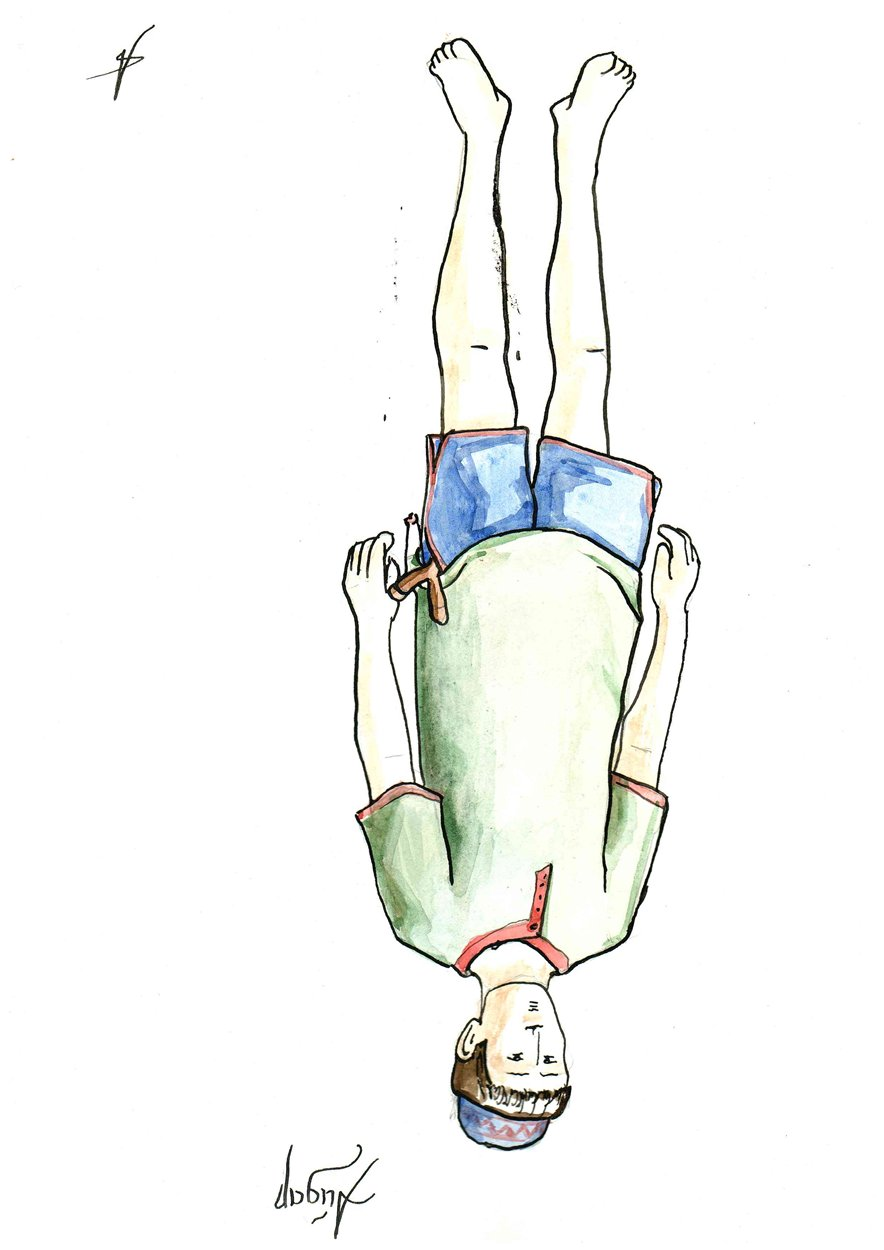
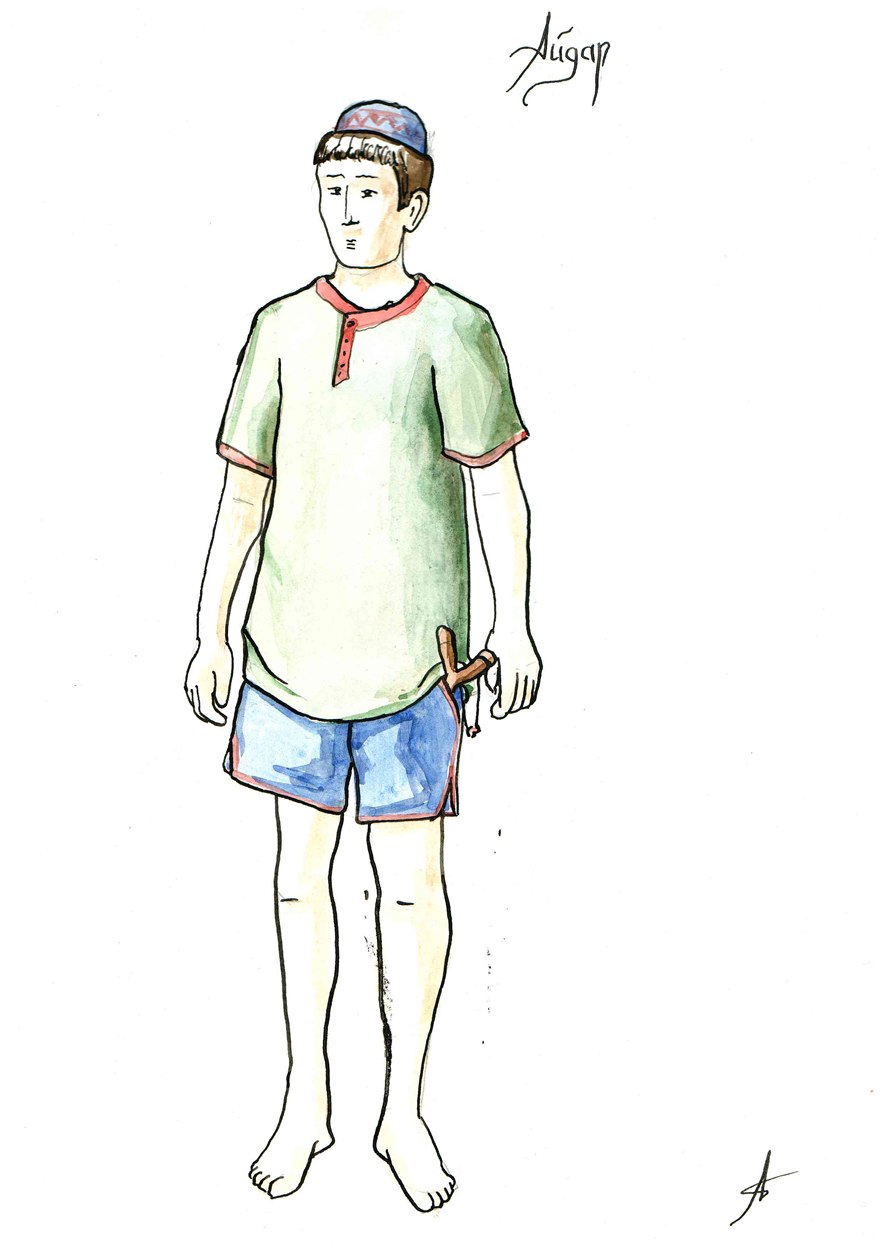
Refine scenography cases and remove duplicate visuals

Changed region(s): [[0.1833, 0.0, 0.7941, 0.9984], [0.8247, 0.936, 0.8857, 0.9672], [0.1222, 0.0312, 0.1527, 0.0936]]

diff --git a/portfolio/index.html b/portfolio/index.html
@@ -73,10 +73,10 @@ figcaption{margin-top:8px;font-size:9px;line-height:1.35;letter-spacing:.13em;te
 .pochtamt-grid{display:grid;grid-template-columns:.76fr 1.24fr;gap:12px;align-items:stretch}
 .pochtamt-grid .project .panel{height:100%;min-height:460px}
 .pochtamt-grid .hero-photo .panel{height:100%;min-height:460px}
-.pochtamt-strip{display:grid;grid-template-columns:1fr 1fr 1fr;gap:10px;margin-top:12px}
+.pochtamt-strip{display:grid;grid-template-columns:1fr 1fr;gap:12px;margin-top:12px}
 .pochtamt-strip .panel{aspect-ratio:16/10}
 .pochtamt-strip figure:nth-child(2){transform:translateY(18px)}
-.pochtamt-strip figure:nth-child(3){transform:translateY(36px)}
+
 
 /* 02 PODPOLIE — mirrored / fractured */
 .case--podpolie{--case-accent:#665a7c;background:#d8d3dc}
@@ -87,7 +87,7 @@ figcaption{margin-top:8px;font-size:9px;line-height:1.35;letter-spacing:.13em;te
 .pod-stage .large .panel{height:560px}
 .pod-stage .side{display:grid;grid-template-columns:1fr;gap:12px}
 .pod-stage .side .panel{aspect-ratio:16/10}
-.pod-footer{display:grid;grid-template-columns:repeat(2,1fr);gap:12px;margin-top:12px}
+.pod-footer{display:grid;grid-template-columns:1fr;gap:12px;margin-top:12px;width:min(72%,820px)}
 .pod-footer .panel{aspect-ratio:16/9}
 
 /* 03 TAGANOK — rotation / sequence */
@@ -95,11 +95,11 @@ figcaption{margin-top:8px;font-size:9px;line-height:1.35;letter-spacing:.13em;te
 .tag-lead{display:grid;grid-template-columns:.38fr 1.62fr;gap:14px;align-items:stretch}
 .tag-lead .plan .panel{height:100%;min-height:500px}
 .tag-lead .wide .panel{height:100%;min-height:500px}
-.tag-sequence{display:grid;grid-template-columns:repeat(4,1fr);gap:8px;margin-top:18px}
+.tag-sequence{display:grid;grid-template-columns:repeat(3,1fr);gap:10px;margin-top:18px}
 .tag-sequence .panel{aspect-ratio:4/3}
 .tag-sequence figure:nth-child(2){transform:translateY(12px)}
 .tag-sequence figure:nth-child(3){transform:translateY(24px)}
-.tag-sequence figure:nth-child(4){transform:translateY(36px)}
+
 .tag-detail{display:grid;grid-template-columns:.34fr 1fr;gap:12px;margin-top:54px;align-items:end}
 .tag-detail .project .panel{aspect-ratio:3/4}
 .tag-detail .final .panel{aspect-ratio:16/9}
@@ -137,7 +137,6 @@ figcaption{margin-top:8px;font-size:9px;line-height:1.35;letter-spacing:.13em;te
 .angels-grid figure:nth-child(2){grid-column:6/13;grid-row:1/6}
 .angels-grid figure:nth-child(3){grid-column:1/8;grid-row:5/10}
 .angels-grid figure:nth-child(4){grid-column:8/13;grid-row:6/10}
-.angels-grid figure:nth-child(5){grid-column:1/13;grid-row:10/15}
 .angels-grid .panel{height:100%}
 
 /* 07 PROSTI — upper/lower bridge */
@@ -220,7 +219,7 @@ figcaption{margin-top:8px;font-size:9px;line-height:1.35;letter-spacing:.13em;te
  .pochtamt-strip figure{transform:none!important}
  .pod-top{grid-template-columns:1fr}
  .pod-top .project:last-child{transform:none}
- .pod-footer{grid-template-columns:1fr}
+ .pod-footer{grid-template-columns:1fr;width:100%}
  .tag-sequence{grid-template-columns:1fr}
  .tag-detail{margin-top:18px}
  .neb-lead,.neb-row{gap:14px}
@@ -296,9 +295,8 @@ figcaption{margin-top:8px;font-size:9px;line-height:1.35;letter-spacing:.13em;te
       <figure class="hero-photo reveal" data-delay="1"><div class="panel"><img class="zoom" loading="lazy" src="images/pochtamt-1.jpg" alt="Почтамт на сцене"></div><figcaption>Реализация / система в действии</figcaption></figure>
     </div>
     <div class="pochtamt-strip">
-      <figure class="project reveal"><div class="panel"><img class="zoom" loading="lazy" src="images/pochtamt-sketch2.jpg" alt="Второй эскиз Почтамта"></div><figcaption>Проектное состояние</figcaption></figure>
-      <figure class="reveal" data-delay="1"><div class="panel"><img class="zoom" loading="lazy" src="images/pochtamt-2.jpg" alt="Почтамт"></div><figcaption>Конвейер / люди / коробки</figcaption></figure>
-      <figure class="reveal" data-delay="2"><div class="panel"><img class="zoom" loading="lazy" src="images/pochtamt-3.jpg" alt="Почтамт"></div><figcaption>Сценическое состояние</figcaption></figure>
+      <figure class="reveal"><div class="panel"><img class="zoom" loading="lazy" src="images/pochtamt-2.jpg" alt="Почтамт"></div><figcaption>Другое состояние пространства</figcaption></figure>
+      <figure class="reveal" data-delay="1"><div class="panel"><img class="zoom" loading="lazy" src="images/pochtamt-3.jpg" alt="Почтамт"></div><figcaption>Предметная система в действии</figcaption></figure>
     </div>
     <div class="case-end"><div class="case-note">Сценография · костюмы · свет · медиа</div><div class="case-note">Участник XV Международного фестиваля «Коляда-Plays / Евразия»</div></div>
   </div>
@@ -317,7 +315,7 @@ figcaption{margin-top:8px;font-size:9px;line-height:1.35;letter-spacing:.13em;te
     </div>
     <div class="pod-top">
       <figure class="project reveal"><div class="panel"><img class="zoom" loading="lazy" src="images/podpolie-initial.jpg" alt="Ранний вариант Подполья"></div><figcaption>Первоначальная версия / большая сцена</figcaption></figure>
-      <figure class="project reveal" data-delay="1"><div class="panel"><img class="zoom" loading="lazy" src="images/podpolie-final.jpg" alt="Финальная пространственная версия Подполья"></div><figcaption>Финальная пространственная версия / зеркала и манекены</figcaption></figure>
+      <figure class="project reveal" data-delay="1"><div class="panel"><img class="zoom" loading="lazy" src="images/podpolie-final.jpg" alt="Рабочая схема финальной версии Подполья"></div><figcaption>Рабочая схема финальной версии / малая сцена</figcaption></figure>
     </div>
     <div class="pod-stage">
       <figure class="large reveal"><div class="panel"><img class="zoom" loading="lazy" src="images/podpolie-4.jpg" alt="Подполье на сцене"></div><figcaption>Реализация / общий вид пространства</figcaption></figure>
@@ -327,8 +325,7 @@ figcaption{margin-top:8px;font-size:9px;line-height:1.35;letter-spacing:.13em;te
       </div>
     </div>
     <div class="pod-footer">
-      <figure class="reveal"><div class="panel"><img class="zoom" loading="lazy" src="images/podpolie-3.jpg" alt="Подполье"></div><figcaption>Персонаж и отражение</figcaption></figure>
-      <figure class="project reveal" data-delay="1"><div class="panel"><img class="zoom" loading="lazy" src="images/podpolie-sketch.jpg" alt="Эскиз ранней версии Подполья"></div><figcaption>Эскиз раннего поиска / сохранён как этап развития решения</figcaption></figure>
+      <figure class="reveal"><div class="panel"><img class="zoom" loading="lazy" src="images/podpolie-3.jpg" alt="Подполье"></div><figcaption>Персонаж, отражение и глубина камерного пространства</figcaption></figure>
     </div>
     <div class="case-end"><div class="case-note">Сценография · костюмы · свет</div><div class="case-note">Ключевой переход: большая сцена → камерное пространство без уменьшения идеи</div></div>
   </div>
@@ -350,14 +347,13 @@ figcaption{margin-top:8px;font-size:9px;line-height:1.35;letter-spacing:.13em;te
       <figure class="wide reveal" data-delay="1"><div class="panel"><img class="zoom" loading="lazy" src="images/taganok-wide.jpg" alt="Таганок, общий вид"></div><figcaption>Реализация / широкий общий вид</figcaption></figure>
     </div>
     <div class="tag-sequence">
-      <figure class="reveal"><div class="panel"><img class="zoom" loading="lazy" src="images/taganok-1.jpg" alt="Таганок"></div><figcaption>Состояние 1</figcaption></figure>
-      <figure class="reveal" data-delay="1"><div class="panel"><img class="zoom" loading="lazy" src="images/taganok-2.jpg" alt="Таганок"></div><figcaption>Состояние 2</figcaption></figure>
-      <figure class="reveal" data-delay="2"><div class="panel"><img class="zoom" loading="lazy" src="images/taganok-5.jpg" alt="Таганок"></div><figcaption>Состояние 3</figcaption></figure>
-      <figure class="reveal" data-delay="3"><div class="panel"><img class="zoom" loading="lazy" src="images/taganok-4.jpg" alt="Таганок"></div><figcaption>Финальный ансамбль</figcaption></figure>
+      <figure class="reveal"><div class="panel"><img class="zoom" loading="lazy" src="images/taganok-2.jpg" alt="Таганок"></div><figcaption>Положение круга / дом и рельеф</figcaption></figure>
+      <figure class="reveal" data-delay="1"><div class="panel"><img class="zoom" loading="lazy" src="images/taganok-6.jpg" alt="Таганок"></div><figcaption>Положение круга / два масштаба пространства</figcaption></figure>
+      <figure class="reveal" data-delay="2"><div class="panel"><img class="zoom" loading="lazy" src="images/taganok-5.jpg" alt="Таганок"></div><figcaption>Положение круга / многоуровневая композиция</figcaption></figure>
     </div>
     <div class="tag-detail">
       <figure class="project reveal"><div class="panel"><img class="zoom" loading="lazy" src="images/taganok-costume.jpg" alt="Костюмный эскиз Таганка"></div><figcaption>Костюмный эскиз</figcaption></figure>
-      <figure class="final reveal" data-delay="1"><div class="panel"><img class="zoom" loading="lazy" src="images/taganok-3.jpg" alt="Финал Таганка"></div><figcaption>Финал / форма декорации раскрывается после прохождения героями пути</figcaption></figure>
+      <figure class="final reveal" data-delay="1"><div class="panel"><img class="zoom" loading="lazy" src="images/taganok-4.jpg" alt="Финал Таганка"></div><figcaption>Финал / мальчики и скрытый силуэт орла</figcaption></figure>
     </div>
     <div class="case-end"><div class="case-note">Сценография · костюмы · свет · соавторство инсценировки</div><div class="case-note">Фестивальная история: «Театральное Приволжье», «Золотой Трезини» и др.</div></div>
   </div>
@@ -386,7 +382,6 @@ figcaption{margin-top:8px;font-size:9px;line-height:1.35;letter-spacing:.13em;te
       </div>
       <figure class="big reveal" data-delay="2"><div class="panel"><img class="zoom" loading="lazy" src="images/nebesny-3.jpg" alt="Белые полотна"></div><figcaption>Белые полотна / массовая сцена</figcaption></figure>
     </div>
-    <figure class="project neb-costume reveal"><div class="panel"><img class="zoom" loading="lazy" src="images/nebesny-costume.jpg" alt="Костюмная разработка Небесного тихохода"></div><figcaption>Костюмная разработка</figcaption></figure>
     <div class="case-end"><div class="case-note">Сценография · костюмы · свет</div><div class="case-note">Принцип: минимальное количество предметов — максимальная роль пространства и ансамбля</div></div>
   </div>
 </section>
@@ -430,11 +425,10 @@ figcaption{margin-top:8px;font-size:9px;line-height:1.35;letter-spacing:.13em;te
       <p class="reveal" data-delay="2">Маршрут актёров, трансформируемые элементы и одна система архитектурных линий удерживают квартиру, улицу и рождественскую условность.</p>
     </div>
     <div class="angels-grid">
-      <figure class="project reveal"><div class="panel"><img class="zoom" loading="lazy" src="images/angels-sketch.jpg" alt="Эскиз Когда ангелы шутят"></div><figcaption>Проект / квартира</figcaption></figure>
-      <figure class="reveal" data-delay="1"><div class="panel"><img class="zoom" loading="lazy" src="images/angels-1.jpg" alt="Когда ангелы шутят"></div><figcaption>Реализация</figcaption></figure>
-      <figure class="project reveal" data-delay="2"><div class="panel"><img class="zoom" loading="lazy" src="images/angels-sketch2.jpg" alt="Эскиз Когда ангелы шутят"></div><figcaption>Проект / другое состояние</figcaption></figure>
-      <figure class="reveal" data-delay="1"><div class="panel"><img class="zoom" loading="lazy" src="images/angels-2.jpg" alt="Когда ангелы шутят"></div><figcaption>Смена локации внутри общего каркаса</figcaption></figure>
-      <figure class="reveal" data-delay="2"><div class="panel"><img class="zoom" loading="lazy" src="images/angels-3.jpg" alt="Когда ангелы шутят"></div><figcaption>Сценография / костюм / свет в едином кадре</figcaption></figure>
+      <figure class="project reveal"><div class="panel"><img class="zoom" loading="lazy" src="images/angels-sketch.jpg" alt="Эскиз Когда ангелы шутят"></div><figcaption>Проект / архитектурная система</figcaption></figure>
+      <figure class="reveal" data-delay="1"><div class="panel"><img class="zoom" loading="lazy" src="images/angels-1.jpg" alt="Когда ангелы шутят"></div><figcaption>Реализация / общий вид</figcaption></figure>
+      <figure class="reveal" data-delay="1"><div class="panel"><img class="zoom" loading="lazy" src="images/angels-2.jpg" alt="Когда ангелы шутят"></div><figcaption>Другое состояние той же системы</figcaption></figure>
+      <figure class="reveal" data-delay="2"><div class="panel"><img class="zoom" loading="lazy" src="images/angels-3.jpg" alt="Когда ангелы шутят"></div><figcaption>Сценография, костюм и свет в едином кадре</figcaption></figure>
     </div>
     <div class="case-end"><div class="case-note">Сценография · костюмы · свет</div><div class="case-note">Большая сцена / многолокационная постановка / архитектурная трансформация</div></div>
   </div>
